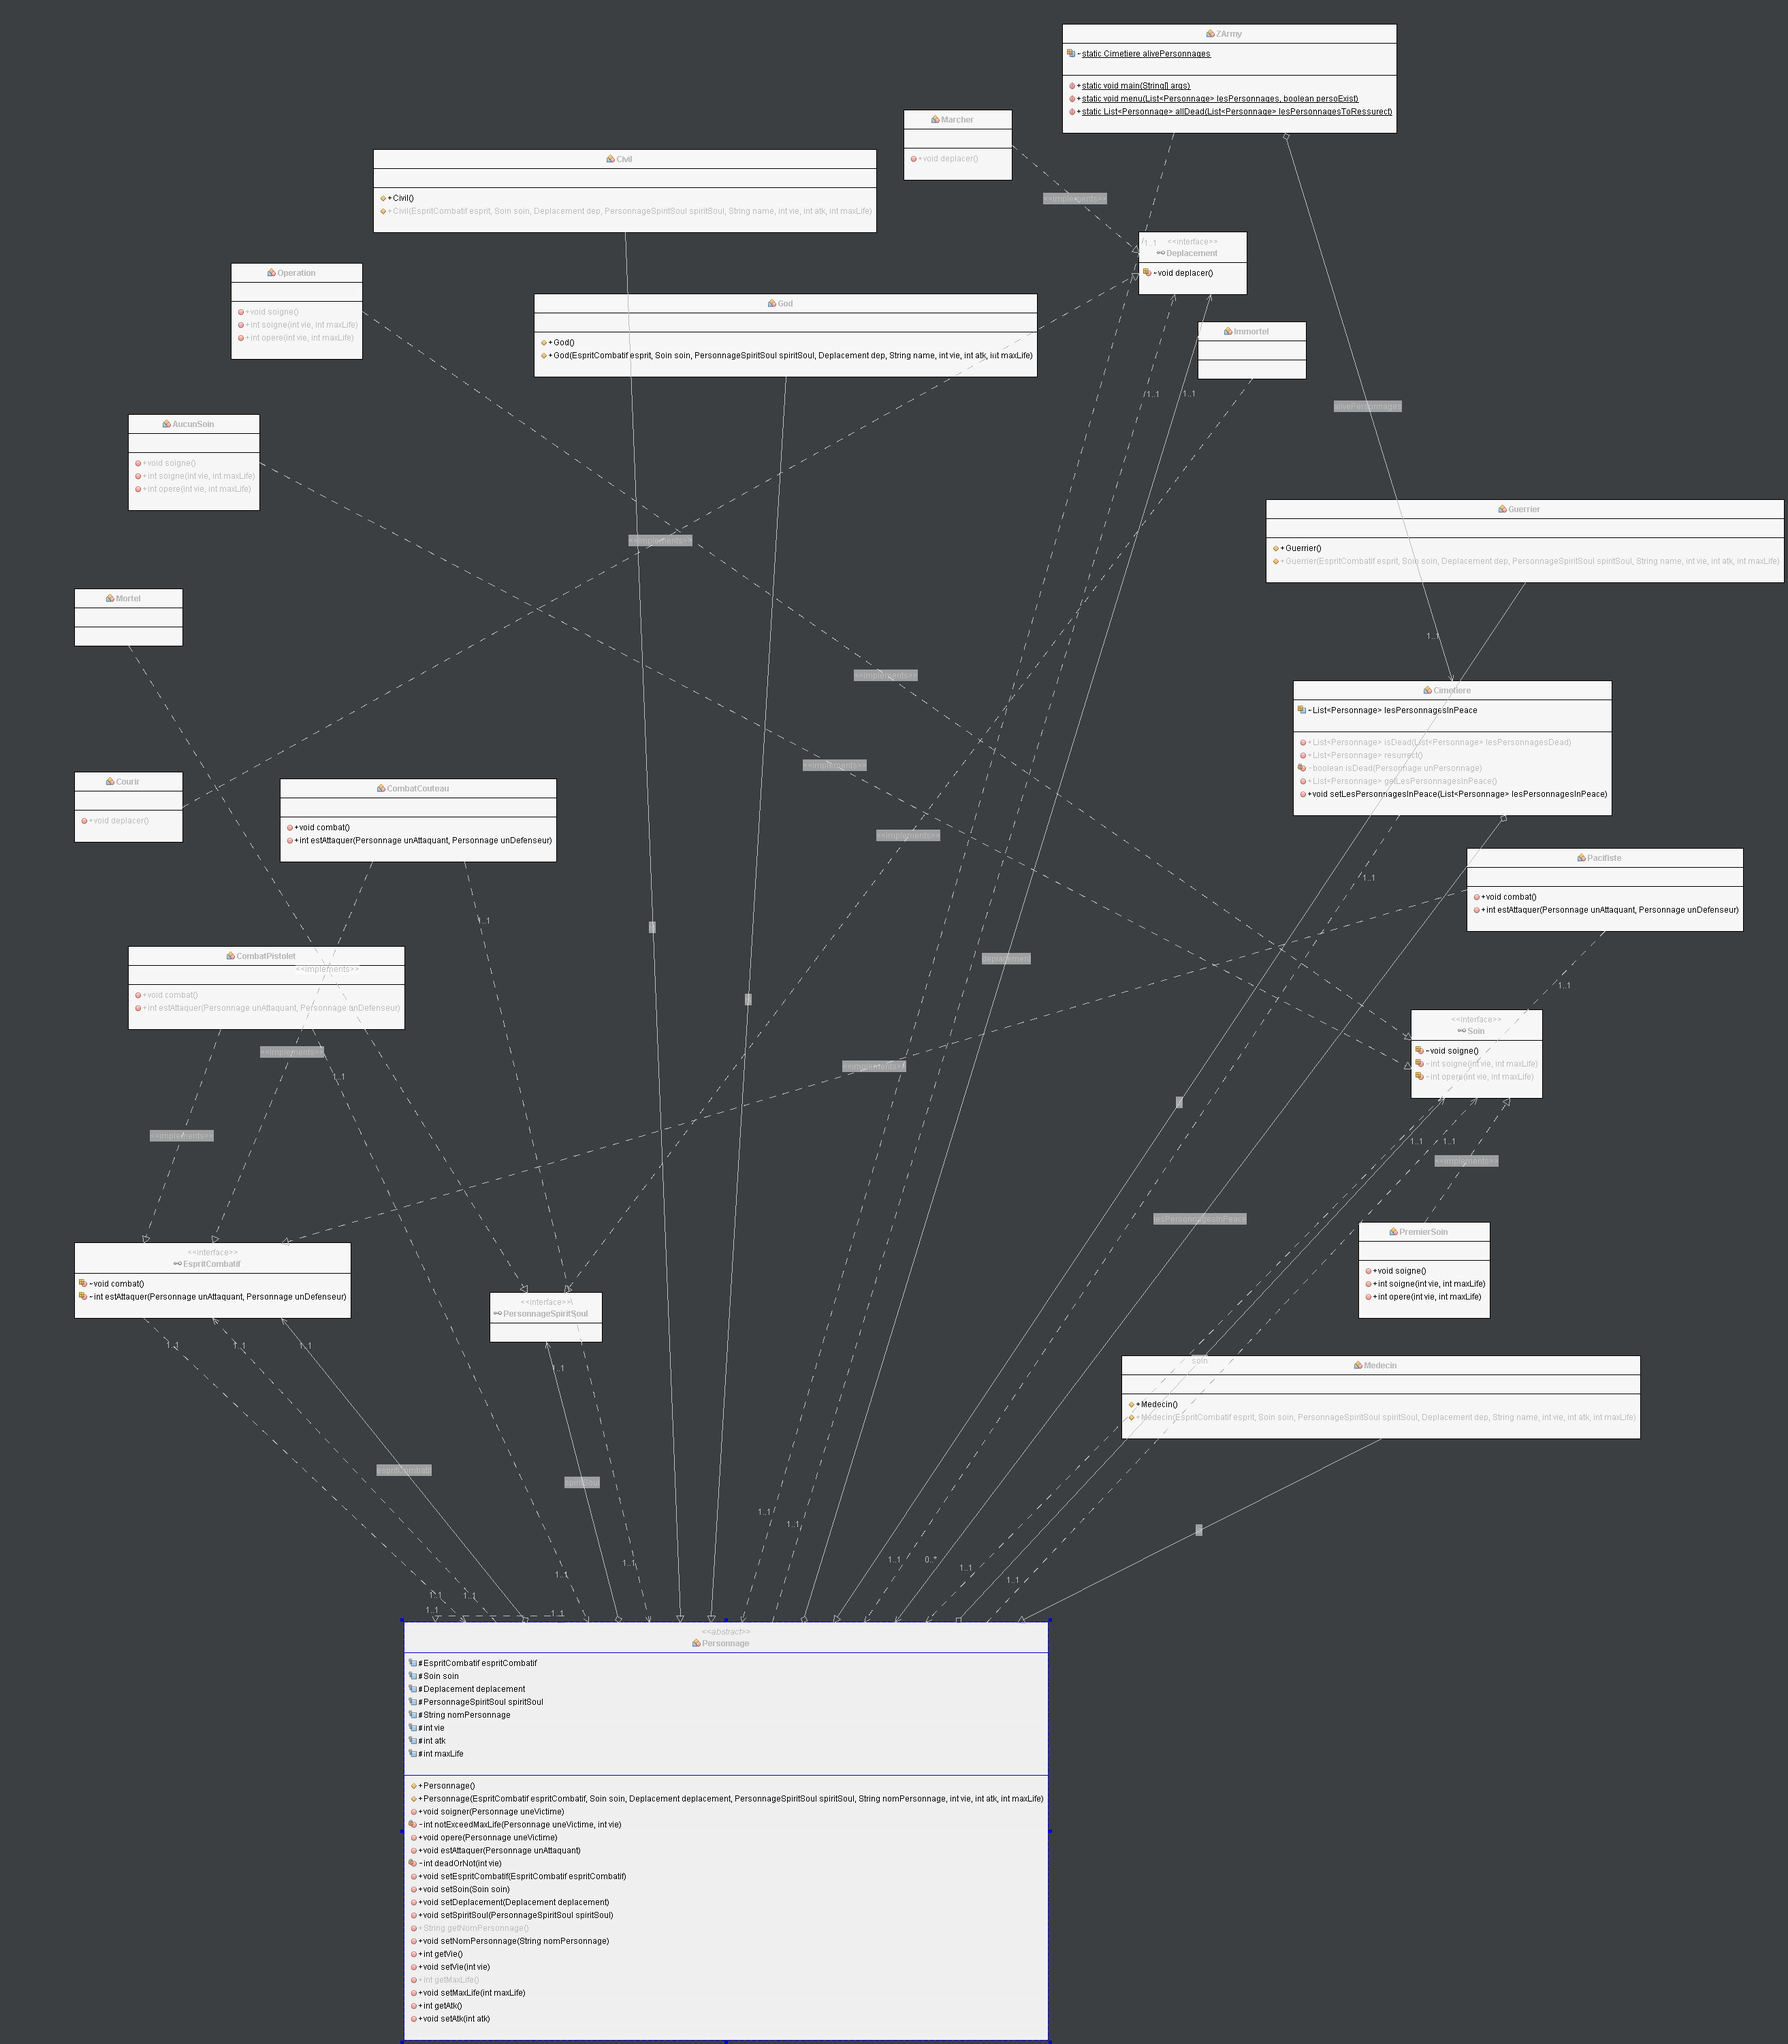
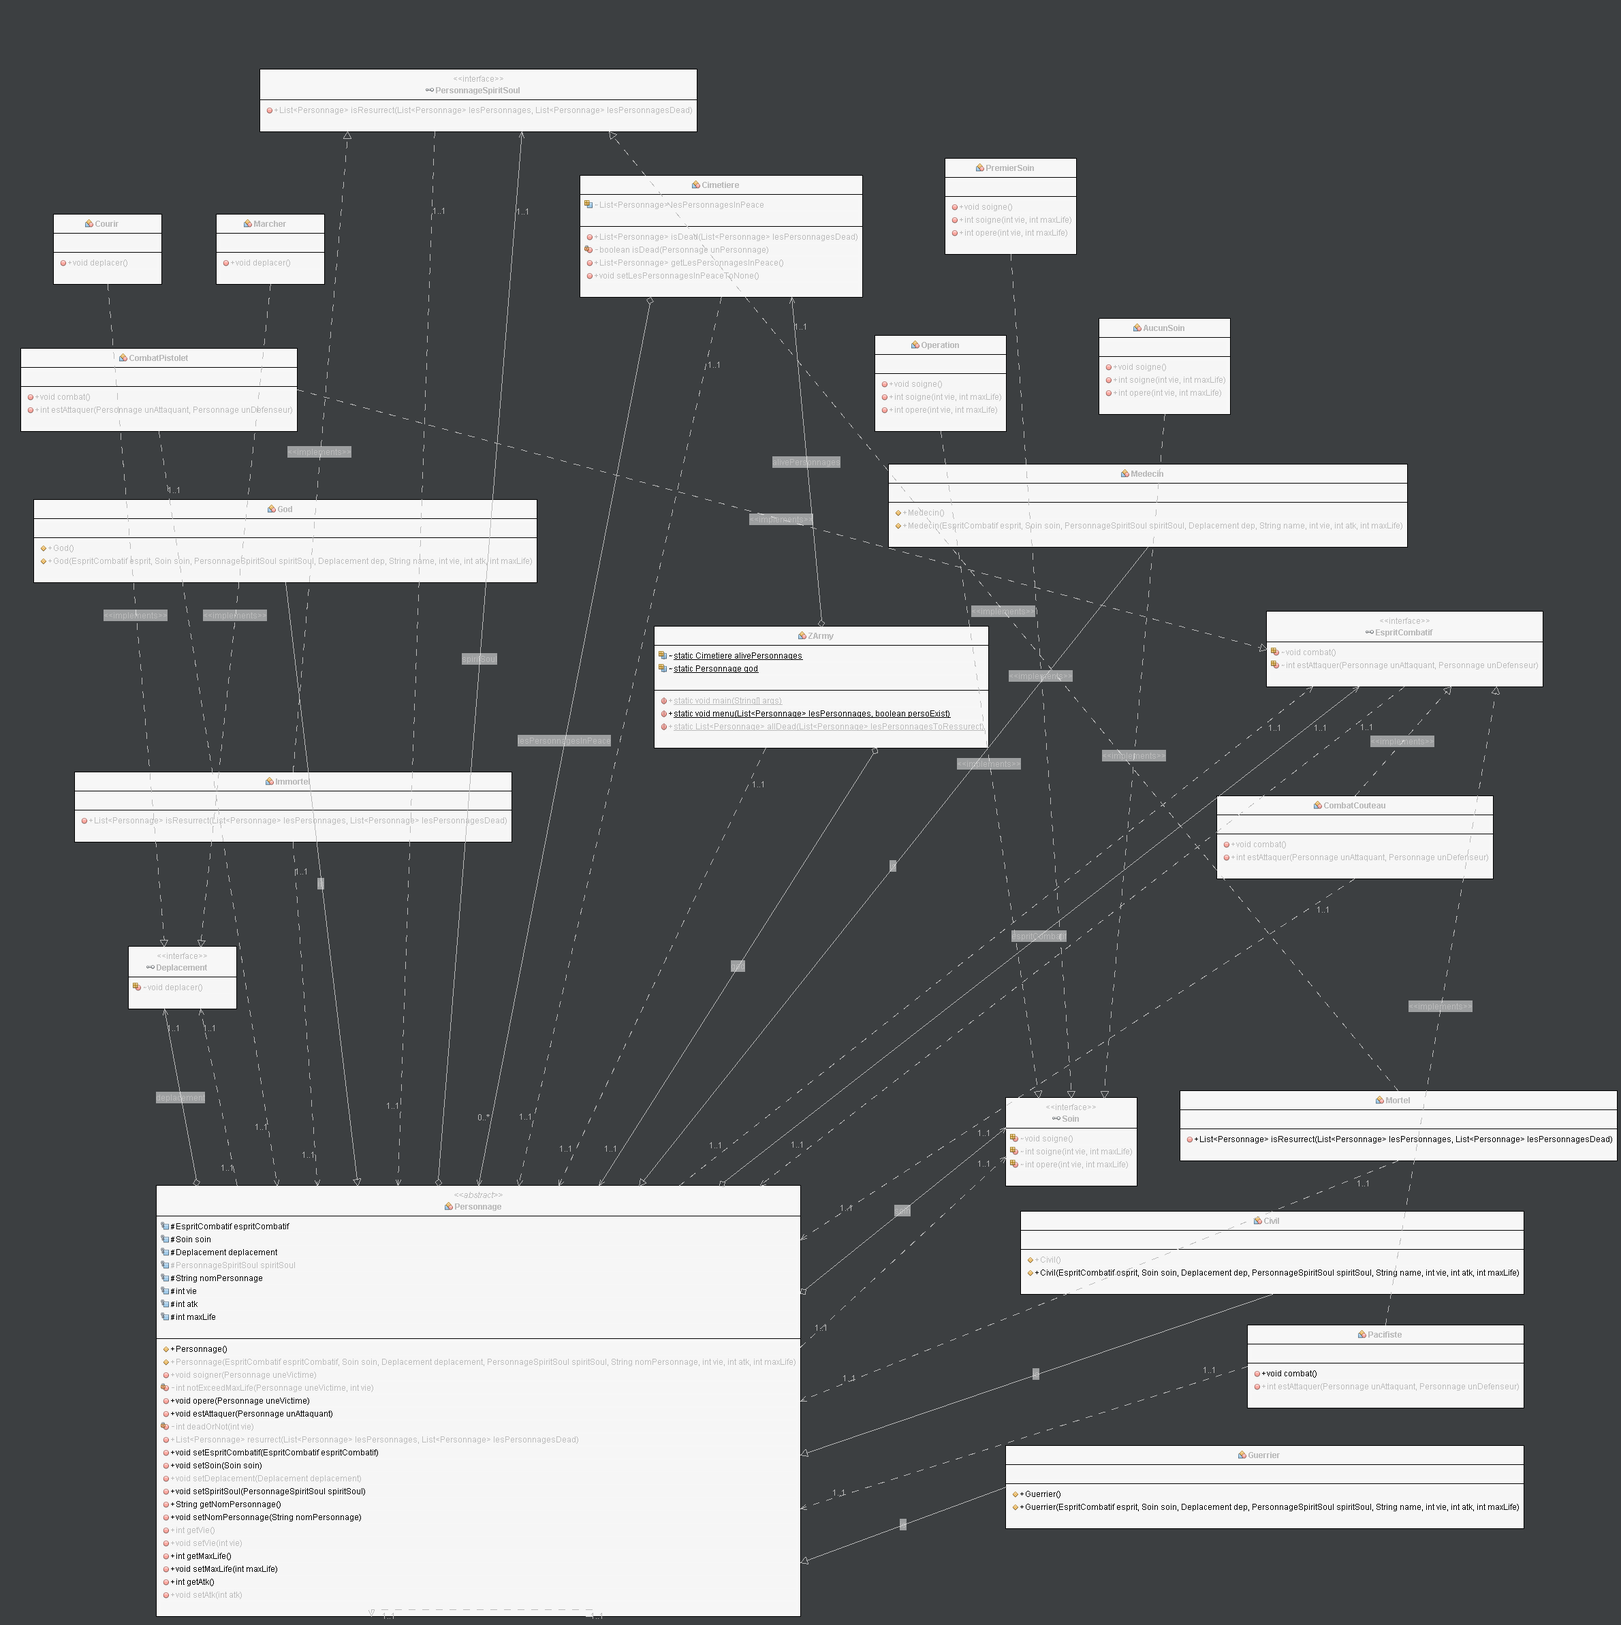
Add personnage God

diff --git a/Z-Army/src/z/army/ZArmy.java b/Z-Army/src/z/army/ZArmy.java
@@ -21,6 +21,7 @@ public class ZArmy {
      * @param args the command line arguments
      */
     static Cimetiere alivePersonnages = new Cimetiere();
+    static Personnage god = new God();
 
     public static void main(String[] args) {
         Scanner inputText = new Scanner(System.in);
@@ -68,7 +69,7 @@ public class ZArmy {
 
             persoExist = true;
             lesPersonnages = allDead(alivePersonnages.isDead(lesPersonnages));
-           
+
             menu(lesPersonnages, persoExist);
 
             System.out.print("Qui voulez-vous attaquer ? ");
@@ -128,7 +129,9 @@ public class ZArmy {
             String answer = inputText.nextLine();
 
             if (answer.toLowerCase().equals("o")) {
-                lesPersonnagesResurrect = alivePersonnages.resurrect();
+                System.out.println("\nDieu à ressucité tous les personnages !\n");
+                lesPersonnagesResurrect = god.resurrect(lesPersonnagesResurrect, alivePersonnages.getLesPersonnagesInPeace());
+                alivePersonnages.setLesPersonnagesInPeaceToNone();
             } else if (answer.toLowerCase().equals("n")) {
                 System.out.println("Au revoir.");
                 exit(0);

diff --git a/Z-Army/src/comportement/Cimetiere.java b/Z-Army/src/comportement/Cimetiere.java
@@ -35,21 +35,6 @@ public class Cimetiere {
         return lesPersonnages;
     }
 
-    public List<Personnage> resurrect() {
-
-        List<Personnage> lesPersonnages = this.lesPersonnagesInPeace;
-        List<Personnage> lesPersonnagesToResurrect = new ArrayList();
-
-        for (Personnage unPersonnage : lesPersonnages) {
-            unPersonnage.setVie(unPersonnage.getMaxLife());
-            lesPersonnagesToResurrect.add(unPersonnage);
-        }
-        
-        this.lesPersonnagesInPeace.removeAll(lesPersonnagesInPeace);
-        
-        return lesPersonnagesToResurrect;
-    }
-
     private boolean isDead(Personnage unPersonnage) {
         boolean isDead = false;
 
@@ -64,8 +49,8 @@ public class Cimetiere {
         return lesPersonnagesInPeace;
     }
 
-    public void setLesPersonnagesInPeace(List<Personnage> lesPersonnagesInPeace) {
-        this.lesPersonnagesInPeace = lesPersonnagesInPeace;
+    public void setLesPersonnagesInPeaceToNone() {
+        this.lesPersonnagesInPeace.removeAll(lesPersonnagesInPeace);
     }
 
 }

diff --git a/Z-Army/src/comportement/Immortel.java b/Z-Army/src/comportement/Immortel.java
@@ -3,7 +3,10 @@
  * To change this template file, choose Tools | Templates
  * and open the template in the editor.
  */
-package comportement;
+package comportement;  
+import java.util.ArrayList;
+import java.util.List;
+import z.army.Personnage;
 
 /**
  *
@@ -11,4 +14,13 @@ package comportement;
  */
 public class Immortel implements PersonnageSpiritSoul{
     
+    public List<Personnage> isResurrect(List <Personnage> lesPersonnages, List<Personnage> lesPersonnagesDead){
+        List<Personnage> lesPersonnagesToResurrect = new ArrayList(lesPersonnagesDead);
+        
+        for(Personnage unPersonnage : lesPersonnagesToResurrect){
+            unPersonnage.setVie(unPersonnage.getMaxLife());
+        }
+        
+        return lesPersonnagesToResurrect;
+    }
 }

diff --git a/Z-Army/src/z/army/Personnage.java b/Z-Army/src/z/army/Personnage.java
@@ -5,6 +5,7 @@
  */
 package z.army;
 import comportement.*;
+import java.util.List;
 
 /**
  *
@@ -77,6 +78,11 @@ public abstract class Personnage {
         }
         
         return vie;
+    }
+    
+    public List<Personnage> resurrect(List<Personnage> lesPersonnages, List<Personnage> lesPersonnagesDead){
+        lesPersonnages = this.spiritSoul.isResurrect(lesPersonnages, lesPersonnagesDead);
+        return lesPersonnages;
     }
 
     //Redéfinit le comportement au combat

diff --git a/Z-Army/src/comportement/Mortel.java b/Z-Army/src/comportement/Mortel.java
@@ -5,10 +5,16 @@
  */
 package comportement;
 
+import java.util.List;
+import z.army.Personnage;
+
 /**
  *
  * @author DanyL
  */
 public class Mortel implements PersonnageSpiritSoul {
-    
+    public List<Personnage> isResurrect(List <Personnage> lesPersonnages, List<Personnage> lesPersonnagesDead){
+        System.out.println("Je ne peut pas êtres ressucité !");
+        return null;
+    }
 }

diff --git a/Z-Army/src/comportement/PersonnageSpiritSoul.java b/Z-Army/src/comportement/PersonnageSpiritSoul.java
@@ -5,10 +5,13 @@
  */
 package comportement;
 
+import java.util.List;
+import z.army.Personnage;
+
 /**
  *
  * @author DanyL
  */
 public interface PersonnageSpiritSoul {
-    
+    public List<Personnage> isResurrect(List <Personnage> lesPersonnages, List<Personnage> lesPersonnagesDead);
 }
